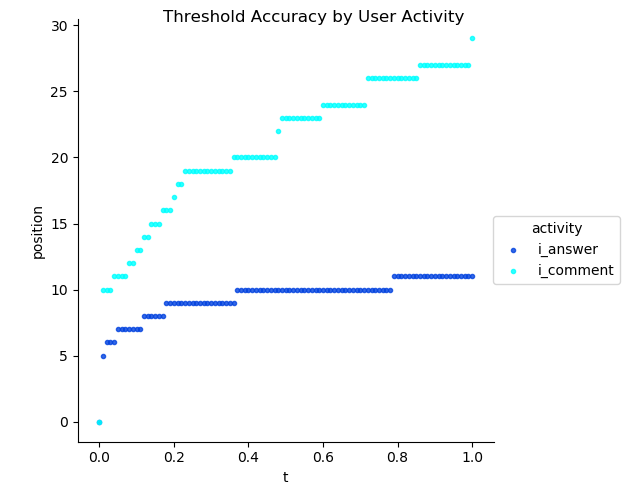
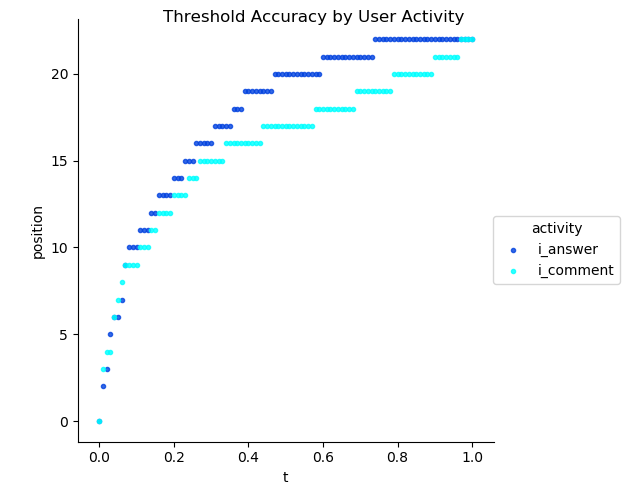
got engine to work with the new data, no longer have missing users error

diff --git a/source/engine/engine.py b/source/engine/engine.py
@@ -25,7 +25,7 @@ class Residuals:
         self.raw_residuals_per_question = defaultdict(lambda: defaultdict(lambda: list()))
 
     def compute_and_store_residuals(self, score_matrix, y_index):
-        observed = json.loads(self.y['owner_user_ids'].values[y_index])
+        observed = self.y.iloc[y_index]
         predicted = {int(score_matrix[i, 0]): {'index': i, 'score': score_matrix[i, -1]} for i in range(score_matrix.shape[0])}
 
         # TODO: ensure all users have proper indexing
@@ -33,13 +33,13 @@ class Residuals:
         # index_comment = [predicted[user]['index'] for user in observed['commentors']]
 
         index_answer, index_comment = [], []
-        for user in observed['answerers']:
+        for user in eval(observed.answerers):
             try:
                 index_answer.append(predicted[user]['index'])
             except KeyError:
                 logging.debug(f'Missing answerer user: {user}')
 
-        for user in observed['commentors']:
+        for user in eval(observed.commenters):
             try:
                 index_comment.append(predicted[user]['index'])
             except KeyError:
@@ -115,8 +115,8 @@ class Engine:
     t1 = time.time()
 
     # load questions and all user activities
-    X = pd.read_csv(BASE_PATH + 'X100.csv').head(15)
-    y = pd.read_csv(BASE_PATH + 'y100.csv').head(15)
+    X = pd.read_csv(BASE_PATH + 'X_train.csv').head(15)
+    y = pd.read_csv(BASE_PATH + 'y_train.csv').head(15)
     X['CreationDate'] = pd.to_datetime(X['CreationDate'], format="%Y-%m-%dT%H:%M:%S")
 
     # load engineered features
@@ -152,10 +152,8 @@ class Engine:
         # iterate through all questions
         bar = progressbar.ProgressBar()
 
-        # w_new = ','.join(str(x)[0:3] for x in w)
         for index, row in bar(Engine.X.iterrows()):
             question_score_matrix = Engine._rank_question(row, copy(matrix_init), w)
-            # np.savetxt(f'r_matrix_q-{index}_w-{w_new}.csv', question_score_matrix[:, 0], delimiter=",")
             self.residuals.compute_and_store_residuals(question_score_matrix, index)
 
         t2 = time.time()

diff --git a/source/data/cleaning/build_train_test.py b/source/data/cleaning/build_train_test.py
@@ -5,10 +5,10 @@ from collections import defaultdict
 # read inputs
 BASE_PATH = '../../160-Stackoverflow-Data/train_test/raw_query/'
 
-Posts_full = pd.read_csv(BASE_PATH + 'Posts_2012_Jan_June.csv')
-Votes = pd.read_csv(BASE_PATH + 'Votes_2012_Jan_June.csv')
-Comments = pd.read_csv(BASE_PATH + 'Comments_2012_Jan_June.csv')
-Post_his = pd.read_csv(BASE_PATH + 'PostHistory_2012_Jan_June.csv')
+Posts_full = pd.read_csv(BASE_PATH + 'Posts.csv')
+Votes = pd.read_csv(BASE_PATH + 'Votes.csv')
+Comments = pd.read_csv(BASE_PATH + 'Comments.csv')
+Post_his = pd.read_csv(BASE_PATH + 'PostHistory.csv')
 
 # read inputs
 print("Finished Reading Files")
@@ -78,3 +78,5 @@ X_train.to_csv('X_train.csv', index=False)
 X_test.to_csv('X_test.csv', index=False)
 y_train.to_csv('y_train.csv', index=False)
 y_test.to_csv('y_test.csv', index=False)
+
+

diff --git a/source/engine/features.py b/source/engine/features.py
@@ -19,7 +19,7 @@ class Feature:
 
 
 class UserAvailability(Feature):
-    pickle_path = BASE_PATH + 'engineered_features/user_availability_network.p'
+    pickle_path = BASE_PATH + 'engineered_features/user_availibility_network.p'
 
     def __init__(self):
         self.UA_network = Feature.load_p_file(UserAvailability.pickle_path)
